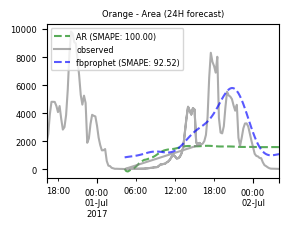
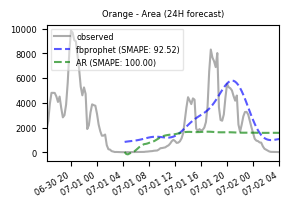
fix AR forecasting #2

diff --git a/ts-compare-methods.py b/ts-compare-methods.py
@@ -1,34 +1,28 @@
-#
-# original code from https://machinelearningmastery.com/autoregression-models-time-series-forecasting-python/
-#
-from datetime import datetime, timedelta
-
-import multiprocessing
+from datetime import datetime
 from fbprophet import Prophet
 import pandas as pd
 from statsmodels.tsa.ar_model import AR
-
 from helpers.getpolygonname import getname, gettype
 import numpy as np
-from statsmodels.graphics.tsaplots import plot_acf
-# from pandas.plotting import lag_plot, autocorrelation_plot
-from pandas import DataFrame
-from pandas import concat
 from matplotlib import pyplot
 from statsmodels.tsa.statespace.sarimax import SARIMAX
+from multiprocessing import Pool
 
+# set base data parameters
 startdate = pd.to_datetime('2017-06-27 04:00:00')  # goes from 26-06 to 05-07
 enddate = pd.to_datetime('2017-07-02 04:00:00')
 filename_data = '2017_dcount15m_harmonised.csv'
 filename_pols = '2017_polygonlist.csv'
 basepath = 'data/'
 
+# global constants
 hours_to_predict = 24
 slices_to_predict = hours_to_predict * 4
 global_freq = None
 
 
-def load_data(polygon):
+# load and filter data, split into pd.Series for statsmodels and pd.DataFrame for fbprophet
+def load_transform_data(polygon):
     # load data
     df_orig = pd.read_csv(basepath + filename_data, squeeze=True)
     # prep cols for Prophet
@@ -67,34 +61,12 @@ def MAPE(y_true, y_pred):
     y_true, y_pred = np.array(y_true), np.array(y_pred)
     return np.mean(np.abs((y_true - y_pred) / y_true)) * 100
 
-
+# calculate sMAPE (timeseries evaluation metric)
 def SMAPE(y_true, y_pred):
     denominator = (np.abs(y_true) + np.abs(y_pred))
     diff = np.abs(y_true - y_pred) / denominator
     diff[denominator == 0] = 0.0
     return 200 * np.mean(diff)
-
-
-def checkAC():
-    # show data
-    series_all.plot(color="orange")
-    pyplot.show()
-    # check for correlation
-    lag_plot(series_all)
-    pyplot.show()
-    # creates a lagged version of the dataset and calculates a correlation matrix of each column with other columns (
-    # including itself)
-    values = DataFrame(series_all.values)
-    dataframe = concat([values.shift(1), values], axis=1)
-    dataframe.columns = ['t-1', 't+1']
-    result = dataframe.corr()
-    print(result)
-    # autocorrelation plot
-    autocorrelation_plot(series_all)
-    pyplot.show()
-    # statsmodel AC plot
-    plot_acf(series_all, lags=31)
-    pyplot.show()
 
 
 # calculate AR Model
@@ -191,26 +163,24 @@ def calc_fbprophet(series):
     return df_fbprophet
 
 
-# do stuff #
+# process one polygon
 def process(polygon):
     print("Predicting polygon %s - started at %s" % (str(polygon), str(datetime.now())))
-    series_all, series_train, series_test, df_all = load_data(polygon)
+    series_all, series_train, series_test, df_all = load_transform_data(polygon)
     # output size (must be up here)
     pyplot.figure(figsize=(3, 2))
 
     # calculate all models
-    # calc AR model
-    AR_y, AR_yhat = calc_AR(series_train, series_test)
-    smape_AR = SMAPE(AR_y, AR_yhat)
-    AR_yhat.plot(color='green', linestyle='--', alpha=0.65, linewidth=1.5, label='AR (SMAPE: {:.2f})'.format(smape_AR))
-
     # calc fbprophet
     df_fbprophet = calc_fbprophet(df_all)
     fbprophet_yhat = df_fbprophet.yhat[len(df_fbprophet) - slices_to_predict:]
     smape_fbprophet = SMAPE(df_fbprophet.y[len(df_fbprophet) - slices_to_predict:], fbprophet_yhat)
     df_fbprophet.y.plot(color='grey', alpha=0.65, label='observed')     # plot observed data
     fbprophet_yhat.plot(color='blue', linestyle='--', alpha=0.65, linewidth=1.5, label='fbprophet (SMAPE: {:.2f})'.format(smape_fbprophet))       # plot predicted
-
+    # calc AR model
+    AR_y, AR_yhat = calc_AR(series_train, series_test)
+    smape_AR = SMAPE(AR_y, AR_yhat)
+    AR_yhat.plot(color='green', linestyle='--', alpha=0.65, linewidth=1.5, label='AR (SMAPE: {:.2f})'.format(smape_AR))
     # calc Auto.ARIMA
     smape_autoSARIMA = 0
     if autoARIMA:
@@ -231,7 +201,7 @@ def process(polygon):
     pyplot.title('%s (%iH forecast)' % (getname(polygon), hours_to_predict), fontsize=SMALL_SIZE)
     # plot legend and set alpha
     pyplot.legend()
-    #pyplot.legend().get_frame().set_alpha(0.5)
+    pyplot.legend().get_frame().set_alpha(0.5)
     # save img
     pyplot.savefig('img/compare/' + 'comp_pol_' + str(polygon) + '.png', bbox_inches='tight')
     #pyplot.show()
@@ -248,12 +218,9 @@ def process(polygon):
 
 
 # run stuff
-from multiprocessing import Pool
-
 #will not work for some polys
 #df_polygons = pd.read_csv('data/2017_polygoninfo_filtered.csv', usecols=["ogr_fid"], nrows=None)
 #polygon_list = df_polygons.values.astype(int).flatten()
-polygon_list = 49
 polygon_list = [6, 49, 18, 5, 25, 11, 16, 10]  # Inner Area, Orange, Rising, Camping C + E, Bridge, Tradezone, Street City
 autoARIMA = True
 
